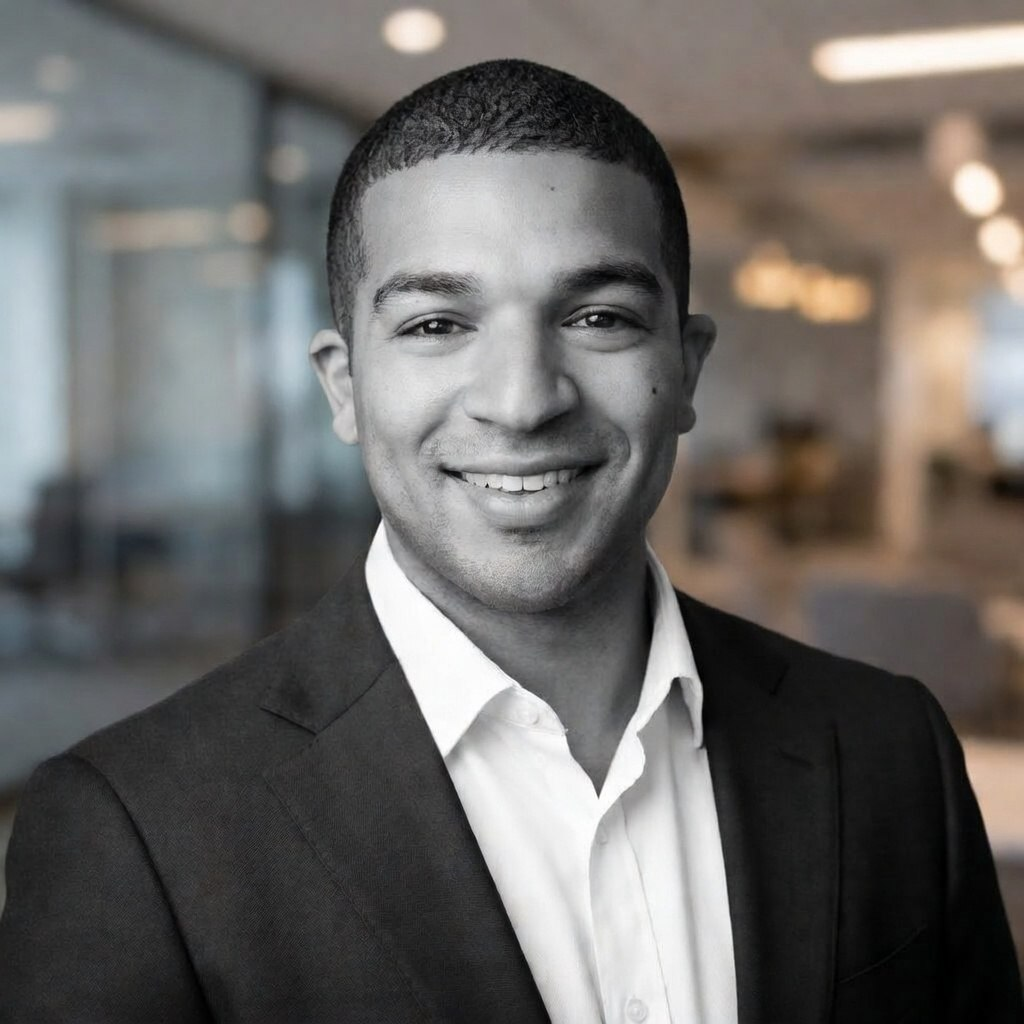
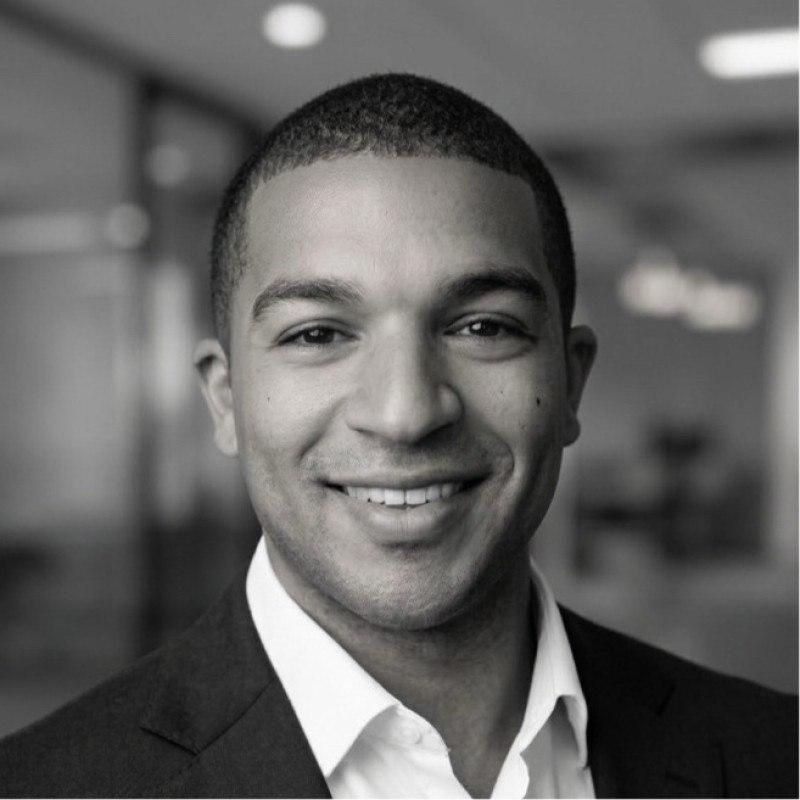
Full site audit fixes: - Update Dayma headshot everywhere (dayma.png + dayma-headshot-bw.jpg) - Fix portfolio unit count: 122 units (not 116) with 52 at Vaughan - Remove Cap Rate Map from Resources page (hidden) - Fix nav links: #listings/#team/#contact now use absolute paths (work from all pages) -

diff --git a/src/components/Header.tsx b/src/components/Header.tsx
@@ -14,12 +14,12 @@ export default function Header() {
   }, [])
 
   const links = [
-    { label: 'Listings', href: '#listings' },
+    { label: 'Listings', href: '/#listings' },
     // { label: 'Map', href: '/map/' }, // Hidden until map is ready
     { label: 'Insights', href: '/insights/' },
     { label: 'Resources', href: '/resources/' },
-    { label: 'Team', href: '#team' },
-    { label: 'Contact', href: '#contact' },
+    { label: 'Team', href: '/#team' },
+    { label: 'Contact', href: '/#contact' },
   ]
 
   return (
@@ -68,7 +68,7 @@ export default function Header() {
               </a>
             ))}
             <a
-              href="#valuation"
+              href="/#valuation"
               className={`text-[11px] font-semibold tracking-[0.15em] uppercase px-6 py-2.5 transition-all duration-500 ${
                 scrolled
                   ? 'bg-gradient-to-r from-gold to-gold-light text-navy hover:shadow-[0_0_20px_rgba(201,168,76,0.2)]'
@@ -113,7 +113,7 @@ export default function Header() {
             </a>
           ))}
           <a
-            href="#valuation"
+            href="/#valuation"
             onClick={() => setMenuOpen(false)}
             className={`text-[13px] font-bold tracking-[0.15em] uppercase bg-gradient-to-r from-gold to-gold-light text-navy px-6 py-4 text-center mt-6 transition-all duration-500 ${
               menuOpen ? 'opacity-100 translate-y-0' : 'opacity-0 translate-y-4'

diff --git a/src/components/Footer.tsx b/src/components/Footer.tsx
@@ -211,9 +211,9 @@ export default function Footer() {
             <div className="flex gap-5 sm:gap-6 text-[10px] sm:text-[11px] text-white/20 tracking-wide">
               <a href="/insights/" className="hover:text-white/40 transition-colors">Insights</a>
               <a href="/resources/" className="hover:text-white/40 transition-colors">Resources</a>
-              <a href="#listings" className="hover:text-white/40 transition-colors">Listings</a>
+              <a href="/#listings" className="hover:text-white/40 transition-colors">Listings</a>
               {/* Map link hidden until ready */}
-              <a href="#team" className="hover:text-white/40 transition-colors">Team</a>
+              <a href="/#team" className="hover:text-white/40 transition-colors">Team</a>
             </div>
             <span className="text-white/10 text-[10px] sm:text-[11px]">© {new Date().getFullYear()} OnMultifamily</span>
           </div>

diff --git a/src/components/ResourcesHub.tsx b/src/components/ResourcesHub.tsx
@@ -49,12 +49,13 @@ const primaryTools = [
 ]
 
 const secondaryTools = [
-  {
-    title: 'Cap Rate Map',
-    description: 'Interactive transaction map across Ontario - explore active listings, recent sales, and market-level cap rate benchmarks.',
-    href: '/map/',
-    tag: 'Interactive',
-  },
+  // Cap Rate Map hidden until ready
+  // {
+  //   title: 'Cap Rate Map',
+  //   description: 'Interactive transaction map across Ontario - explore active listings, recent sales, and market-level cap rate benchmarks.',
+  //   href: '/map/',
+  //   tag: 'Interactive',
+  // },
   {
     title: 'Market Insights',
     description: 'Weekly analysis on cap rates, CMHC policy, interest rate trends, and Ontario multifamily market conditions.',
